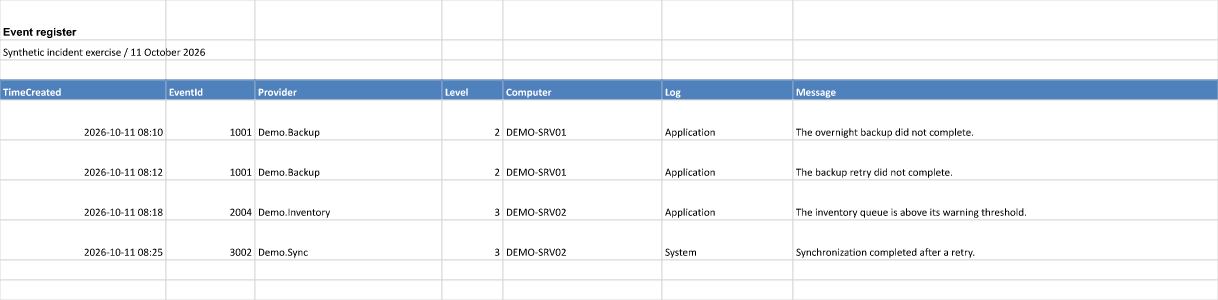
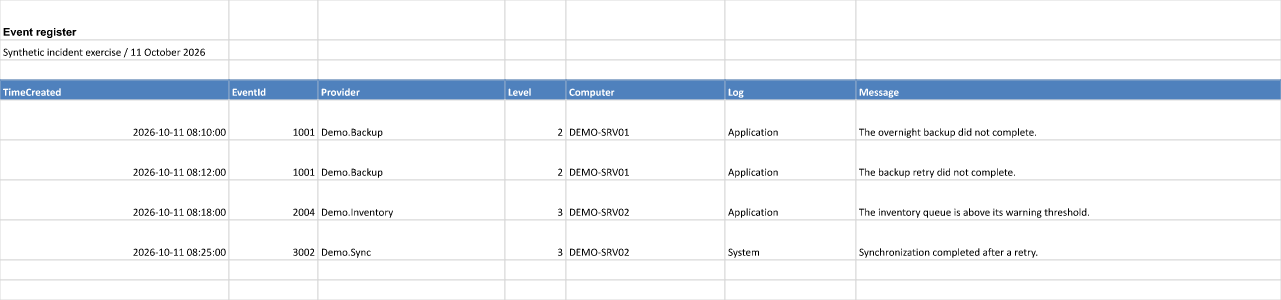
Refresh integration downloads with precise prices and timestamps

diff --git a/Website/content/docs/integrations/event-brief/index.md b/Website/content/docs/integrations/event-brief/index.md
@@ -17,7 +17,7 @@ Install-Module PSWriteOffice -Scope CurrentUser
 ./Examples/Integrations/Recipe-PSEventViewer-OfficeReport.ps1 -OutputDirectory ./Output/EventBrief
 ```
 
-Run from a PSWriteOffice checkout, or download the [complete script](/downloads/integrations/source/Recipe-PSEventViewer-OfficeReport.ps1). Its [source revision](https://github.com/EvotecIT/PSWriteOffice/blob/c7a93f8ed393a97a0235b5db66078216ba73a98a/Examples/Integrations/Recipe-PSEventViewer-OfficeReport.ps1) matches these downloads.
+Run from a PSWriteOffice checkout, or download the [complete script](/downloads/integrations/source/Recipe-PSEventViewer-OfficeReport.ps1). Its [source revision](https://github.com/EvotecIT/PSWriteOffice/blob/76b1994c7a3a2fe23d5e57b180c94aa1c8e43d58/Examples/Integrations/Recipe-PSEventViewer-OfficeReport.ps1) matches these downloads.
 
 ## Use an existing snapshot or collect once
 
@@ -31,6 +31,6 @@ Alternatively, use `-CollectLive -LogName Application -MaxEvents 100`. Live coll
 
 ![Native Excel preview of retained timestamps, providers, source computers, logs and full event messages](/downloads/integrations/events/workbook.png)
 
-The brief shows the retained count and top eight providers with critical, error and warning counts. Excel keeps every retained record up to `MaxEvents`, including source computer and log where supplied, the full message and typed timestamp. Raw and typed `Get-EVXEvent` results are accepted; typed results use their original `SourceEvent` snapshot. `-Event @()` produces an explicit empty report. Counts describe this bounded snapshot; they do not establish root cause, service impact or the total size of a log. Review messages before sharing a live register.
+The brief shows the retained count and top eight providers with critical, error and warning counts. Excel keeps every retained record up to `MaxEvents`, including source computer and log where supplied, the full message and typed timestamp. The XLSX timestamp format includes seconds and milliseconds so events within the same minute remain distinguishable. Raw and typed `Get-EVXEvent` results are accepted; typed results use their original `SourceEvent` snapshot. `-Event @()` produces an explicit empty report. Counts describe this bounded snapshot; they do not establish root cause, service impact or the total size of a log. Review messages before sharing a live register.
 
 Use EventViewerX's `Show-EVXEvent` for its native reports. Choose this integration when the handoff also needs an editable Word brief and PDF, then prepare a [local email package](../report-email/).

diff --git a/Website/content/docs/integrations/supplier-review/index.md b/Website/content/docs/integrations/supplier-review/index.md
@@ -19,11 +19,11 @@ Install-Module PSParseHTML, PSWriteOffice -Scope CurrentUser
 ./Examples/Integrations/Recipe-HtmlSupplierReview.ps1 -OutputDirectory ./Output/SupplierReview
 ```
 
-Read the [complete script](https://github.com/EvotecIT/PSWriteOffice/blob/c7a93f8ed393a97a0235b5db66078216ba73a98a/Examples/Integrations/Recipe-HtmlSupplierReview.ps1) and [sample HTML](https://github.com/EvotecIT/PSWriteOffice/blob/c7a93f8ed393a97a0235b5db66078216ba73a98a/Examples/Integrations/Input/SupplierOffers.html). For a small standalone run, download the [script](/downloads/integrations/source/Recipe-HtmlSupplierReview.ps1) and save the [HTML input](/downloads/integrations/source/Input/SupplierOffers.html) as `Input/SupplierOffers.html` beside it.
+Read the [complete script](https://github.com/EvotecIT/PSWriteOffice/blob/76b1994c7a3a2fe23d5e57b180c94aa1c8e43d58/Examples/Integrations/Recipe-HtmlSupplierReview.ps1) and [sample HTML](https://github.com/EvotecIT/PSWriteOffice/blob/76b1994c7a3a2fe23d5e57b180c94aa1c8e43d58/Examples/Integrations/Input/SupplierOffers.html). For a small standalone run, download the [script](/downloads/integrations/source/Recipe-HtmlSupplierReview.ps1) and save the [HTML input](/downloads/integrations/source/Input/SupplierOffers.html) as `Input/SupplierOffers.html` beside it.
 
 ## Adapt the data
 
-Keep table `id="offers"` and the `Item`, `Supplier`, `UnitPriceUsd` and `LeadDays` headers. Pass your own file with `-HtmlPath`. Prices are USD per unit with a decimal point; freight and tax are excluded. The recipe rejects missing tables, empty item/supplier names and negative price or lead-time values before writing documents.
+Keep table `id="offers"` and the `Item`, `Supplier`, `UnitPriceUsd` and `LeadDays` headers. Pass your own file with `-HtmlPath`. Prices are USD per unit with a decimal point; freight and tax are excluded. Comma decimals and group separators reject before output. Sub-cent prices remain distinct in Word and in numeric Excel cells; each quote displays its own decimal places. The recipe rejects missing tables, empty item/supplier names and negative price or lead-time values before writing documents.
 
 ![Native Excel range preview with numeric price and lead-time columns](/downloads/integrations/supplier/workbook.png)
 

diff --git a/Website/content/docs/integrations/index.md b/Website/content/docs/integrations/index.md
@@ -14,4 +14,4 @@ Start with the input you already have. These examples pass ordinary objects and 
 
 Each page includes real generated files and the complete source that produced them. The downloads contain synthetic data. The recipes run with published modules and add no required dependencies to PSWriteOffice.
 
-Use the [integration guide](https://github.com/EvotecIT/PSWriteOffice/tree/c7a93f8ed393a97a0235b5db66078216ba73a98a/Examples/Integrations) for module requirements and input contracts. The [download manifest](/downloads/integrations/manifest.json) records the source revision, module versions and file hashes.
+Use the [integration guide](https://github.com/EvotecIT/PSWriteOffice/tree/76b1994c7a3a2fe23d5e57b180c94aa1c8e43d58/Examples/Integrations) for module requirements and input contracts. The [download manifest](/downloads/integrations/manifest.json) records the source revision, module versions and file hashes.

diff --git a/Website/content/docs/integrations/report-email/index.md b/Website/content/docs/integrations/report-email/index.md
@@ -8,7 +8,7 @@ Prepare the message as a file so a reviewer can inspect recipients, text and att
 
 ![Generated service report with space between its heading, table and next action](/downloads/integrations/mail-default/preview.png)
 
-[Service PDF](/downloads/integrations/mail-default/Daily-Service-Report.pdf) · [Local EML package](/downloads/integrations/mail-default/ReportReview.eml) · [Complete script](https://github.com/EvotecIT/PSWriteOffice/blob/c7a93f8ed393a97a0235b5db66078216ba73a98a/Examples/Integrations/Recipe-Mailozaurr-PdfDelivery.ps1)
+[Service PDF](/downloads/integrations/mail-default/Daily-Service-Report.pdf) · [Local EML package](/downloads/integrations/mail-default/ReportReview.eml) · [Complete script](https://github.com/EvotecIT/PSWriteOffice/blob/76b1994c7a3a2fe23d5e57b180c94aa1c8e43d58/Examples/Integrations/Recipe-Mailozaurr-PdfDelivery.ps1)
 
 ## Prepare your own attachments
 
